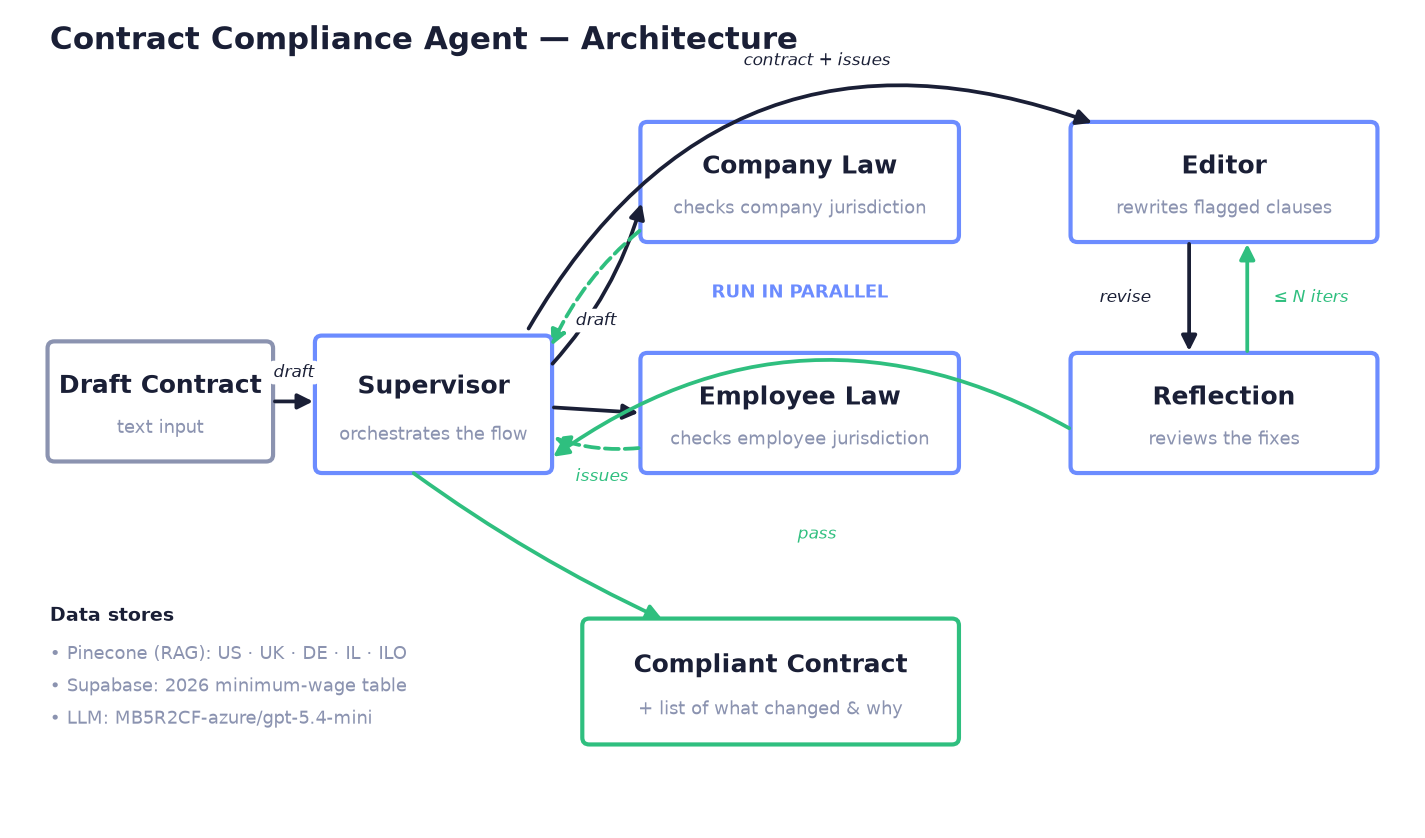
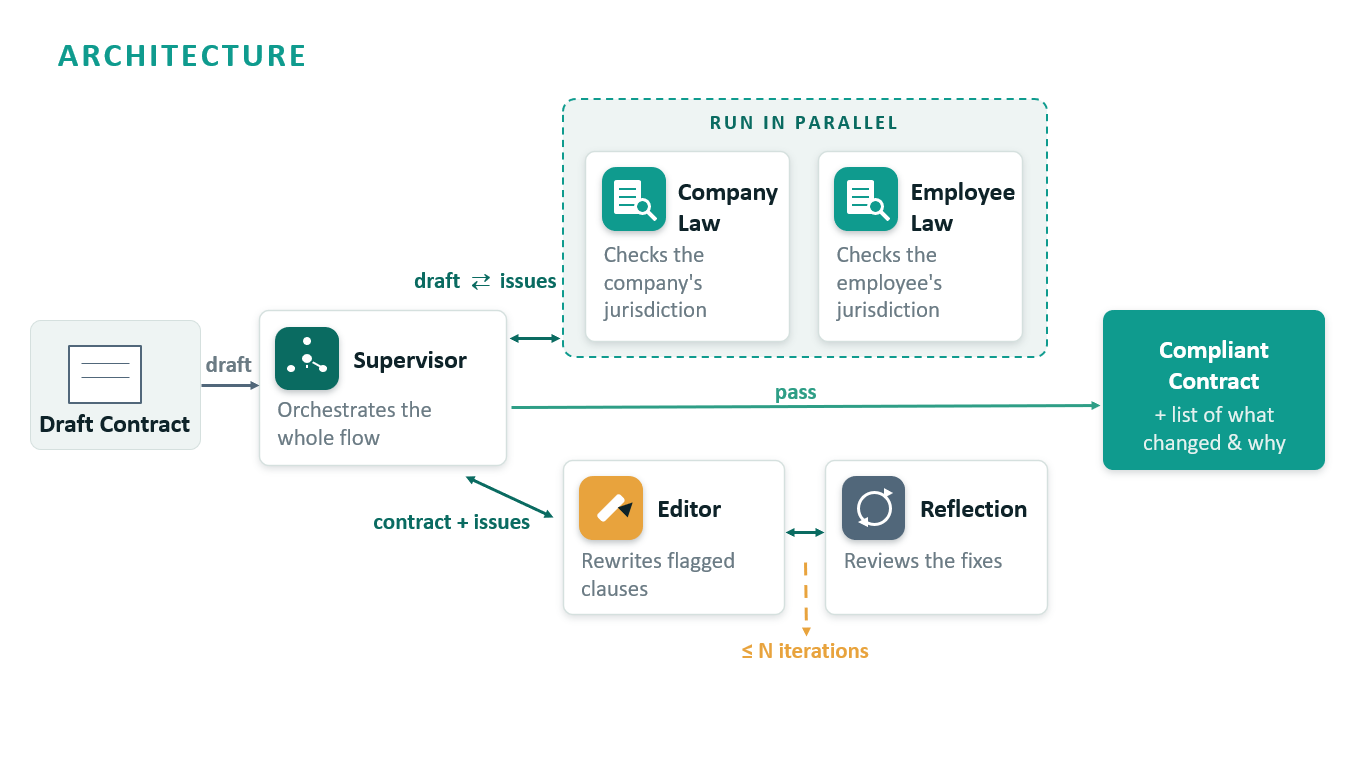
Match the assignment's agent_info response format exactly
Removed keys the specified format does not define, so GET /api/agent_info
returns precisely the documented shape:

  top level      description, purpose, prompt_template, prompt_examples
                 (dropped supported_jurisdictions)
  prompt_template template, example   (dropped notes)
  each example   prompt, full_response, steps   (dropped title, note, status)

Step objects keep the capitalised System_prompt / User_prompt from the
"Required step object schema" section. The PDF's worked example uses lowercase,
but the required-schema section is normative and, more importantly, it is what
POST /api/execute actually emits - the documented examples must match live
behaviour.

diff --git a/agent/agent_info.py b/agent/agent_info.py
@@ -69,15 +69,7 @@ PROMPT_TEMPLATE = {
         "10. Termination: After the probationary period, either party may terminate by giving "
         "one (1) week's written notice..."
     ),
-    "notes": [
-        "Both countries must be among the supported jurisdictions: United States, United Kingdom, "
-        "Germany, Israel. Anything else returns a structured error.",
-        "If a country is omitted the Supervisor will try to infer it from the contract text.",
-        "The contract must be supplied as text; file uploads are not accepted.",
-    ],
 }
-
-SUPPORTED_JURISDICTIONS = ["United States", "United Kingdom", "Germany", "Israel"]
 
 
 def _load_examples():
@@ -88,10 +80,10 @@ def _load_examples():
         return []
 
 
+# Exactly the four keys the assignment's response format specifies.
 AGENT_INFO = {
     "description": DESCRIPTION,
     "purpose": PURPOSE,
-    "supported_jurisdictions": SUPPORTED_JURISDICTIONS,
     "prompt_template": PROMPT_TEMPLATE,
     "prompt_examples": _load_examples(),
 }

diff --git a/scripts/build_agent_examples.py b/scripts/build_agent_examples.py
@@ -71,13 +71,16 @@ def corrected_contract(response: str):
     return m.group(1).strip() if m else None
 
 
-def build_example(result, prompt, title, note):
+def build_example(result, prompt, title=None, note=None):
+    """One prompt_examples entry.
+
+    Exactly the three keys the assignment specifies — prompt, full_response,
+    steps. `title`/`note` are accepted for callers' readability but deliberately
+    NOT emitted, so the payload matches the documented response format.
+    """
     return {
-        "title": title,
-        "note": note,
         "prompt": prompt,
         "full_response": result.get("response") or result.get("error"),
-        "status": result.get("status"),
         "steps": clean_steps(result.get("steps")),
     }
 
